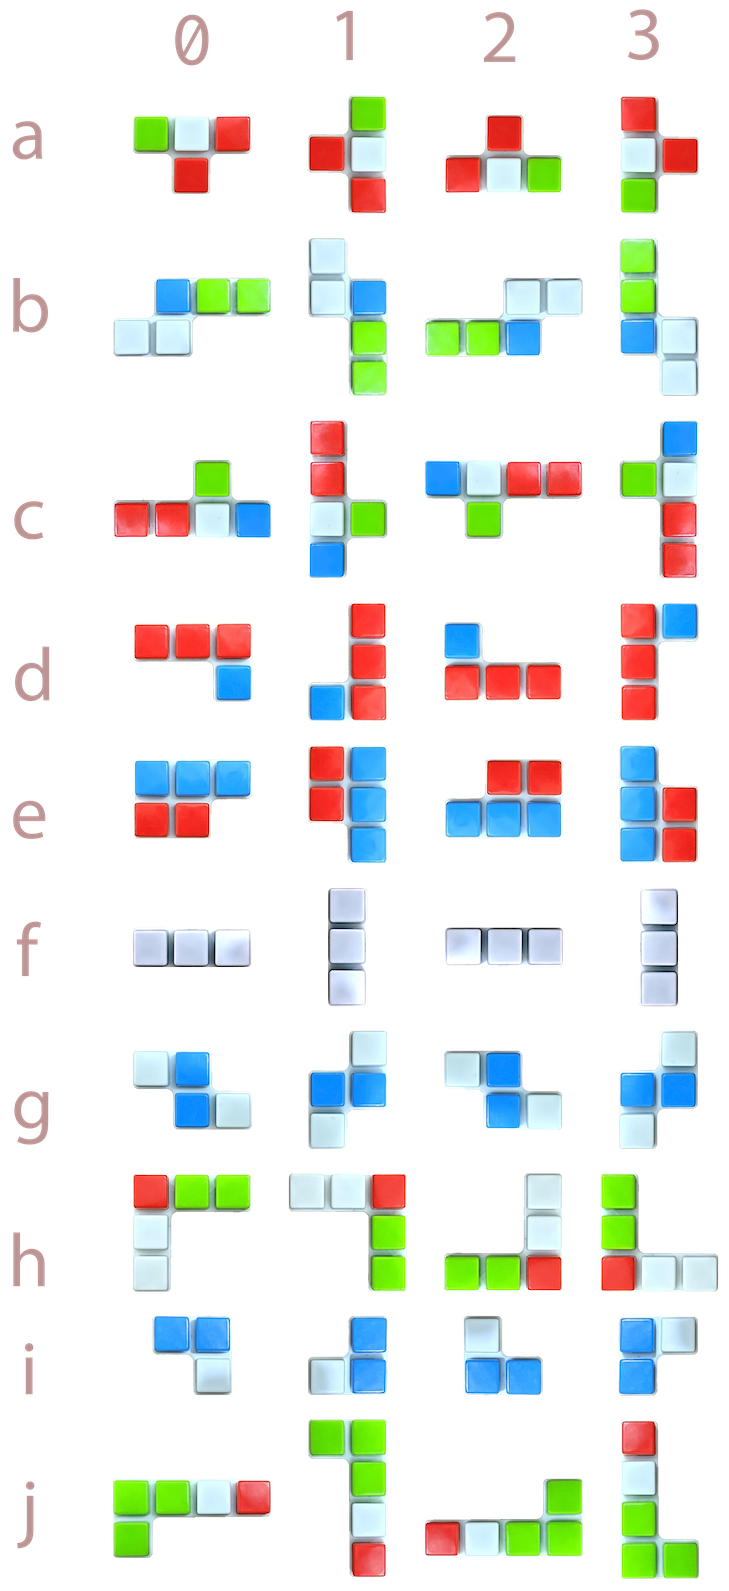
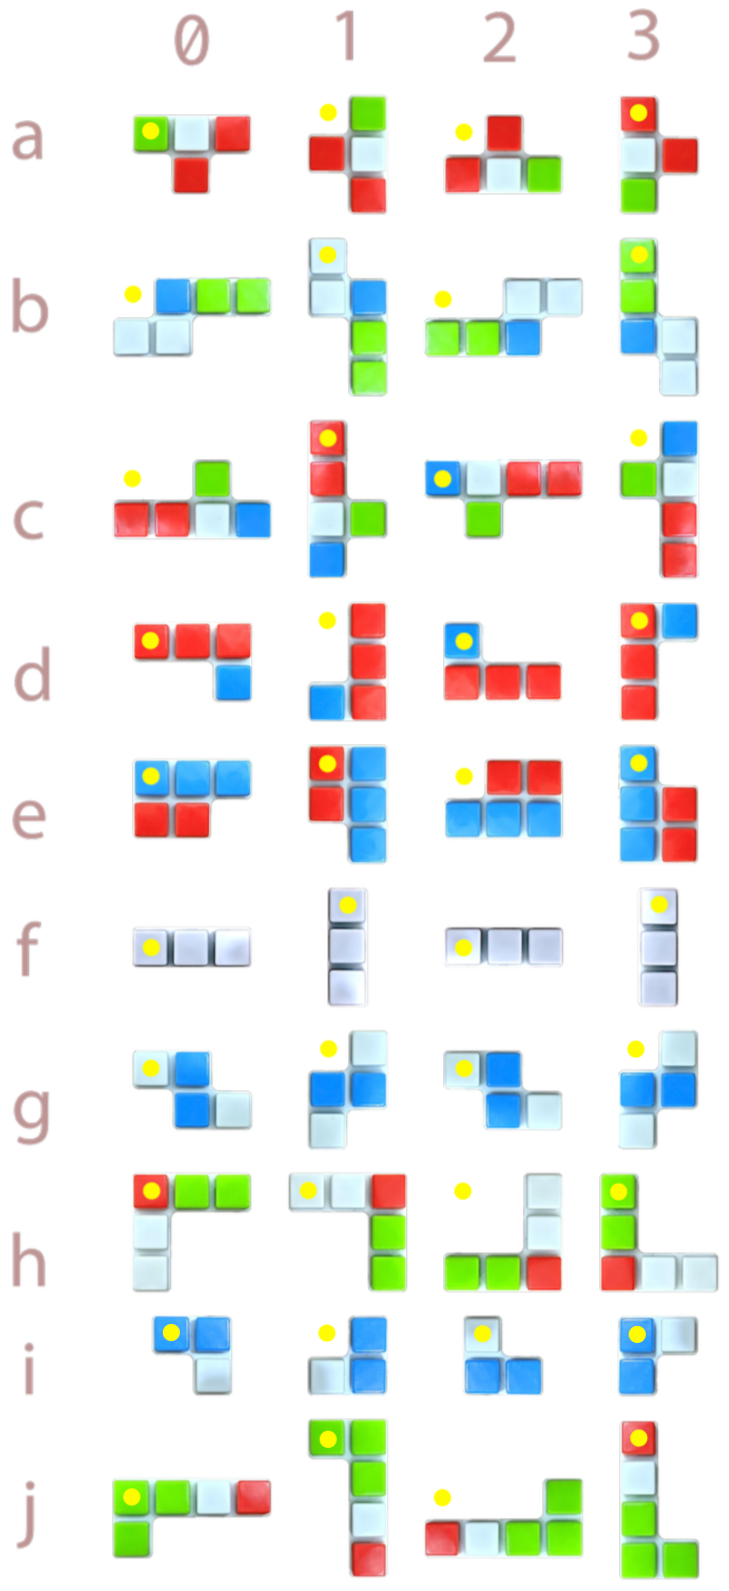
Add dots to diagram to indicate point of reference for locations

diff --git a/README.md b/README.md
@@ -92,7 +92,9 @@ example, in the game above, the first piece is put on position `30`
 and the second is put on `32`.  Note that pieces are addressed as `XY`
 where `X` identifies the column where the left-most square of the
 piece is in, and `Y` identifies the row where the top square of the
-piece is in.
+piece is in.   Yellow dots in the diagram above indicate the
+point of reference (i.e. the top-most row and left-most column
+occupied by the piece).
 
 #### Pieces
 
@@ -103,7 +105,9 @@ plastic board formed by the 43 locations.
 
 Each piece can be **rotated** at 90 degree increments, allowing for 4
 different **orientations**.  The following illustration shows all 40
-possible combinations of the 10 pieces and 4 orientations.
+possible combinations of the 10 pieces and 4 orientations.   (Yellow
+dots indicate the point of reference for the piece's location,
+described below).
 
 <img src="assets/all_pieces.png">
 
